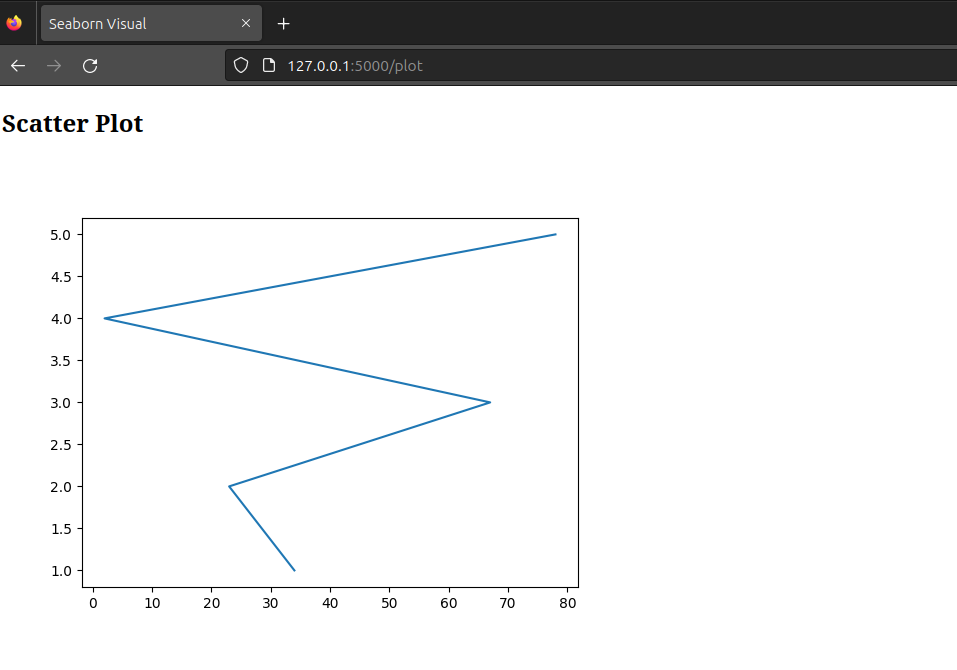
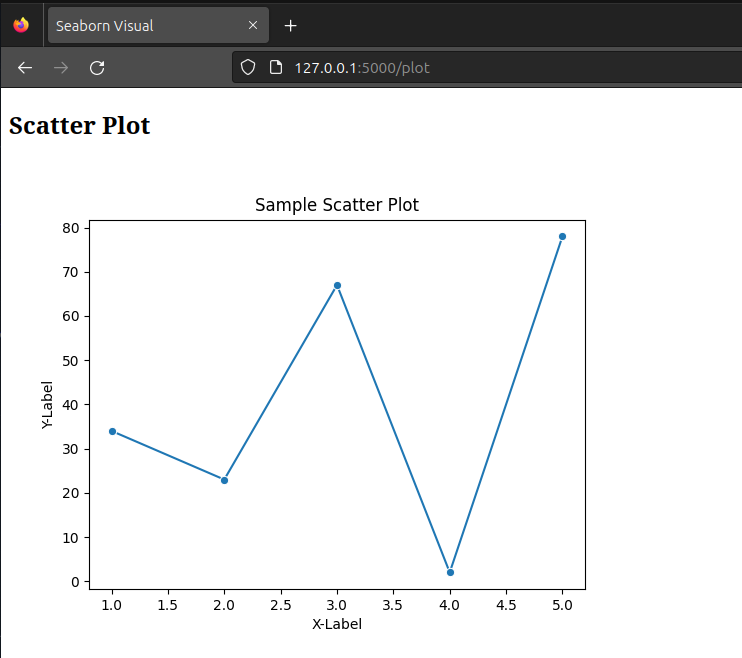
Updated seaborn plot

diff --git a/FlaskApps/Scripts/Seaborn_EDA_Viz.py b/FlaskApps/Scripts/Seaborn_EDA_Viz.py
@@ -1,4 +1,5 @@
 # Import Libraries
+import pandas as pd
 import os
 import base64
 import matplotlib
@@ -17,9 +18,14 @@ def Hello_World():
 @app.route('/plot')
 def plot():
     img = BytesIO()
-    y = [1,2,3,4,5]
-    x = [34,23,67,2,78]
-    plt.plot(x,y)
+    x = [1,2,3,4,5]
+    y = [34,23,67,2,78]
+    df = pd.DataFrame({"x":x, "y":y})
+    #plt.plot(x,y)
+    sns.lineplot(x=x, y=y, data=df, marker='o')
+    plt.xlabel('X-Label')
+    plt.ylabel('Y-Label')
+    plt.title('Sample Scatter Plot')
     plt.savefig(img, format='png')
     plt.close()
     img.seek(0)
